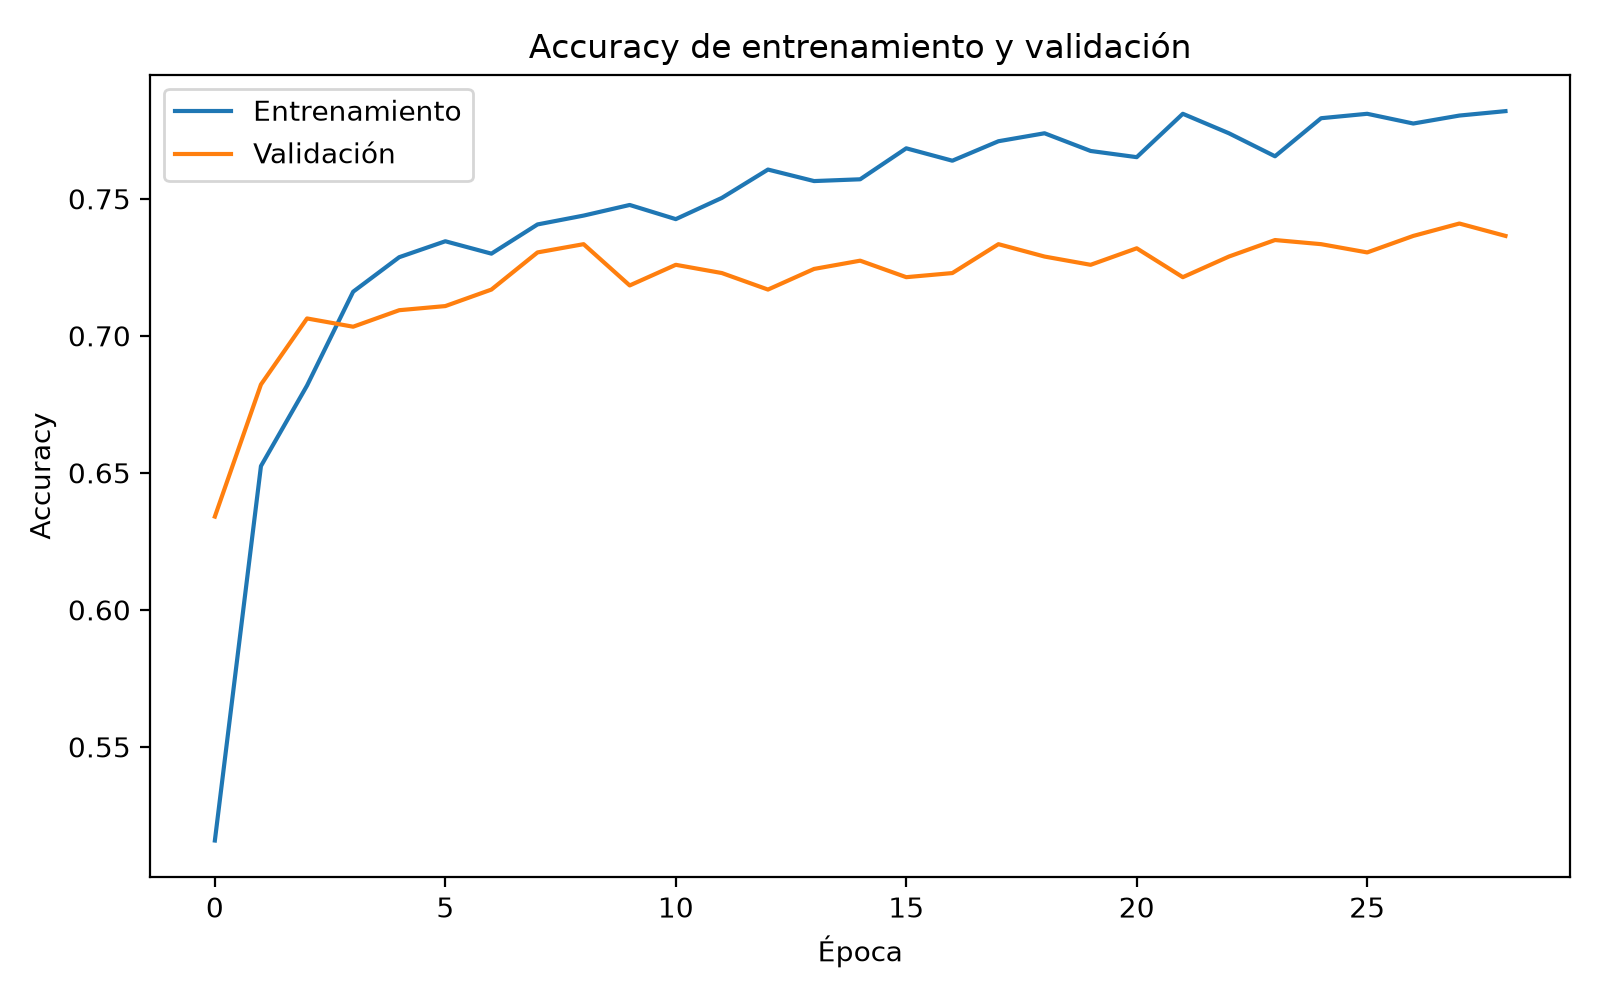
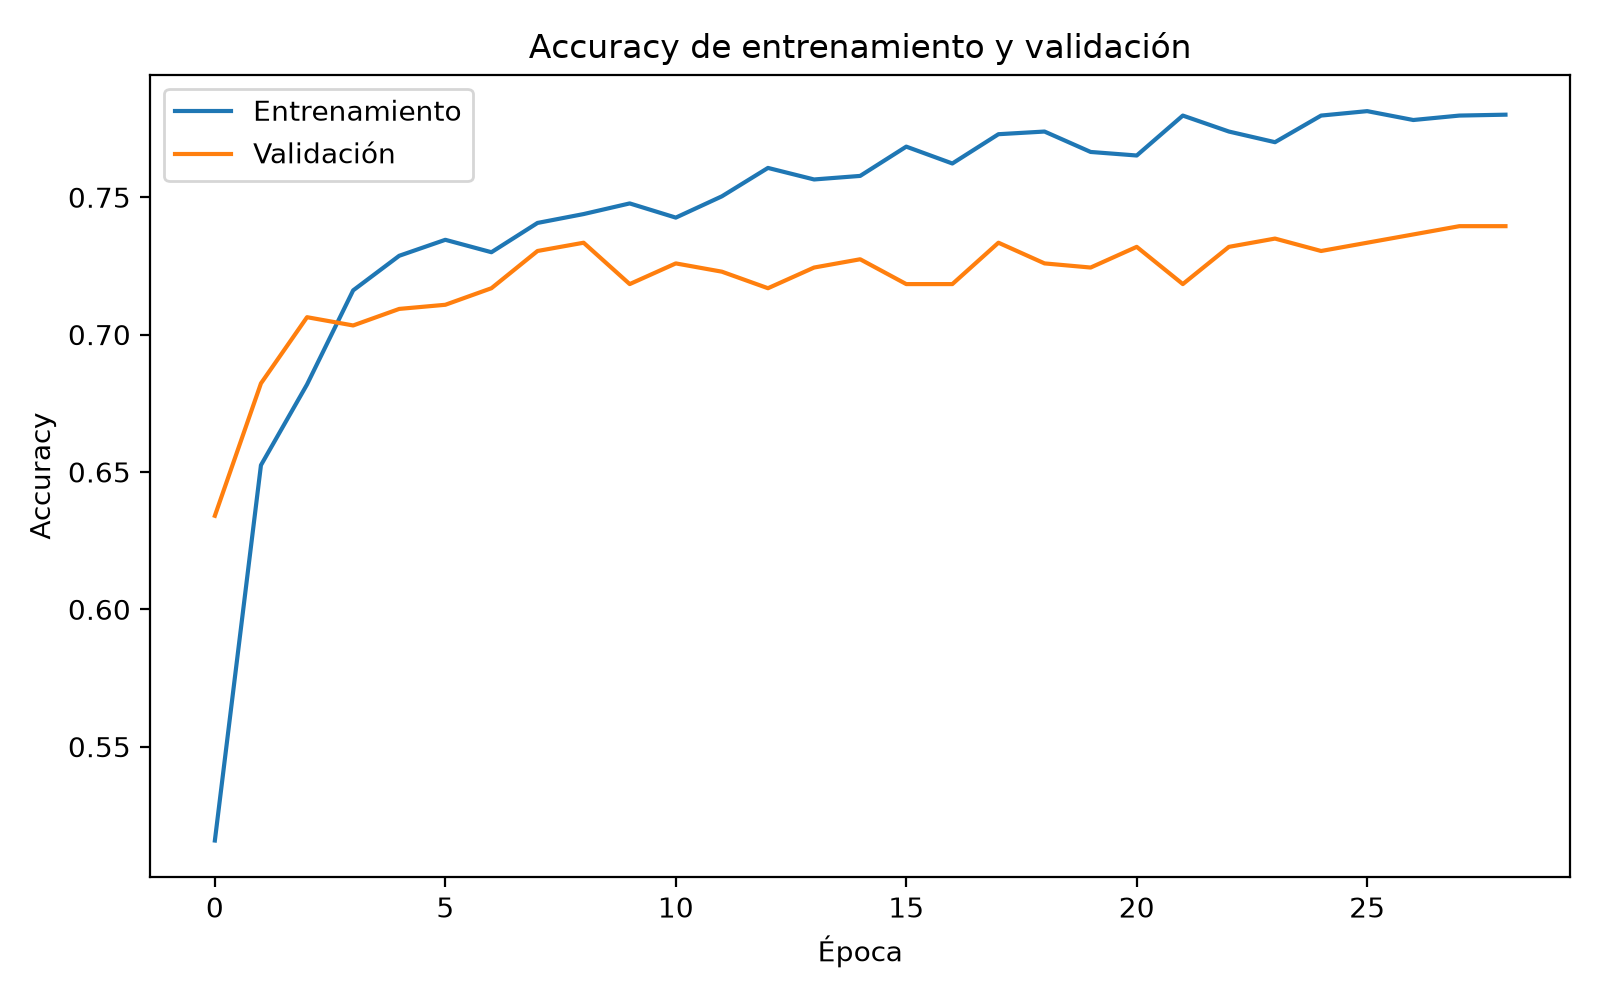
Implementar envío SMTP en API y actualizar reportes y resultados finales de pruebas

diff --git a/api.py b/api.py
@@ -314,7 +314,20 @@ def send_local_email(action: ActionData) -> str:
     ) as alert_file:
         alert_file.write(alert_content)
 
-    return f"Alerta local registrada en {alert_path}"
+    try:
+        msg = EmailMessage()
+        msg.set_content(alert_content)
+        msg["Subject"] = f"ALERTA: Estudiante en Riesgo Alto ({action.student_id})"
+        msg["From"] = SENDER_EMAIL
+        msg["To"] = action.email_tutor
+        
+        with smtplib.SMTP(SMTP_HOST, SMTP_PORT) as server:
+            server.send_message(msg)
+        email_status = "Correo enviado a MailHog exitosamente"
+    except Exception as e:
+        email_status = f"Error al enviar correo: {e}"
+
+    return f"Alerta local registrada en {alert_path}. {email_status}"
 
 
 @app.post("/actions/execute")